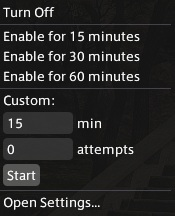
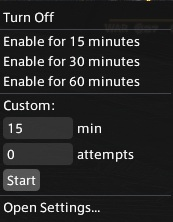
Clean-up, updated README

diff --git a/Inviter/Localizer.cs b/Inviter/Localizer.cs
@@ -124,7 +124,7 @@ namespace Inviter
             zh.Add("Everywhere...", "所有地方……");
             zh.Add("...but for these Maps", "……但这些地图除外");
             zh.Add("The default pattern used everywhere, unless a zone under \"...but for these Maps\" overrides it.", "在所有地方使用的默认模式，除非在“……但这些地图除外”中为该区域设置了覆盖。");
-            zh.Add("Pattern is empty — Inviter will not match any messages until you enter one.", "模式为空 — 在您输入内容之前，Inviter 不会匹配任何消息。");
+            zh.Add("Pattern is empty — Unless overridden for a map, inviter will not match any messages until you enter one.", "模式为空 — 在您输入内容之前，Inviter 不会匹配任何消息（除非某个地图设置了独立覆盖）。");
             zh.Add(
                 "Zones listed here override \"Everywhere...\". Inherit only overrides the Pattern (and whether it's " +
                 "regex) if you check its box below; Force On/Off override the main Enable switch for that zone specifically.",
@@ -270,7 +270,7 @@ namespace Inviter
             fr.Add("Everywhere...", "Partout...");
             fr.Add("...but for these Maps", "...mais pour ces zones");
             fr.Add("The default pattern used everywhere, unless a zone under \"...but for these Maps\" overrides it.", "Le pattern par défaut utilisé partout, sauf si une zone sous « ...mais pour ces zones » le remplace.");
-            fr.Add("Pattern is empty — Inviter will not match any messages until you enter one.", "Le pattern est vide — Inviter ne correspondra à aucun message tant que vous n'en aurez pas saisi un.");
+            zh.Add("Pattern is empty — Unless overridden for a zone, inviter will not match any messages until you enter one.", "模式为空 — 在您输入内容之前，Inviter 不会匹配任何消息（除非某个区域设置了独立覆盖）。");
             fr.Add(
                 "Zones listed here override \"Everywhere...\". Inherit only overrides the Pattern (and whether it's " +
                 "regex) if you check its box below; Force On/Off override the main Enable switch for that zone specifically.",

diff --git a/Inviter/ConfigurationWindow.cs b/Inviter/ConfigurationWindow.cs
@@ -429,7 +429,7 @@ namespace Inviter
 
             if (!string.IsNullOrWhiteSpace(_ruleTerritorySearch))
             {
-                ImGui.BeginChild("##ruleTerritorySearchResults", new Vector2(0, 150));
+                ImGui.BeginChild("##ruleTerritorySearchResults", new Vector2(0, -1));
                 foreach (var territory in Svc.Data.GetExcelSheet<TerritoryType>())
                 {
                     var name = territory.PlaceName.ValueNullable?.Name.ToString();

diff --git a/README.md b/README.md
@@ -1,10 +1,11 @@
 # Inviter
+[![Workflow Status](https://github.com/MakorVihar/Inviter/actions/workflows/build.yml/badge.svg?branch=main)](https://github.com/MakorVihar/Inviter/actions/workflows/build.yml)
+![Dalamud SDK](https://img.shields.io/badge/Dalamud%20SDK-v15-7289da)
+![FFXIV Patch](https://img.shields.io/badge/FFXIV%20Patch-7.55-d97706)
 
 A [Dalamud](https://dalamud.dev) plugin that automatically invites players who say a matching phrase (default "inv") in chat to your party.
 
 This is a fork of [Bluefissure/Inviter](https://github.com/Bluefissure/Inviter), updated to target the current Dalamud API and extended with a server info bar toggle, a right-click quick menu, channel filter shortcuts, and per-zone rules.
-
-![Settings window](images/settings_window.jpg)
 
 ## Install
 
@@ -14,7 +15,7 @@ Add this repository's `repo.json` as a custom plugin repository in Dalamud: **Da
 https://raw.githubusercontent.com/MakorVihar/Inviter/main/repo.json
 ```
 
-Then find "Inviter" under **Plugin Installer → All Plugins** and install it. See [PUBLISHING.md](PUBLISHING.md) if you're setting this repository up yourself.
+Then find "Inviter" under **Plugin Installer → All Plugins** and install it.
 
 ## Features
 
@@ -28,6 +29,12 @@ Then find "Inviter" under **Plugin Installer → All Plugins** and install it. S
   - `Timed (Xm)` — a timed session is running and currently in effect
   - **Left-click** the entry to toggle. In a Forced zone this flips the force state directly (Forced - On ↔ Forced - Off) without touching the main switch; everywhere else it toggles the main switch
   - **Right-click** the entry for a quick menu: turn on/off, start a timed session (with duration presets or a custom minutes/attempts input), cancel a running timed session, or open settings
+
+![General Settings](images/settings_window.jpg)
+![Channel Filters](images/channel_filters.jpg)
+
+![General Match](images/everywhere_settings.jpg)
+![Map Settings](images/map_settings.jpg)
 
 ![Server info bar entry](images/server_info_bar_entry.jpg)
 
@@ -71,13 +78,9 @@ A worked example, walking through every part of the config using one scenario: *
 - **Delay (ms)** — a randomized wait between the two values you set here, before actually sending the invite; e.g. `200` to `600` means each invite waits somewhere between 200ms and 600ms, not always the same amount.
 - **Rate limit (ms)** — how long to wait between invites, so as to not trigger a burst of invites.
 
-<!-- ![General settings](images/example-general-settings.png) -->
-
 ### 2. Filters
 
 Pick which chat channels are actually watched. For most zones you only care about **Shout**, **Yell** and **Say** — leave channels like Free Company unchecked if you don't want messages from there triggering an invite too.
-
-<!-- ![Channel filters](images/example-filters.png) -->
 
 ### 3. Per-zone rules ("...but for these Maps")
 
@@ -90,8 +93,6 @@ Two example zones:
 
 Add a row with **Add Current Zone** while standing in the relevant zone, or find one elsewhere with **Search zone name...**.
 
-<!-- ![Zone rules](images/example-zone-rules.png) -->
-
 ### 4. Server info bar, in this scenario
 
 With the setup above, walking around shows different DTR text depending on where you are:
@@ -100,8 +101,6 @@ With the setup above, walking around shows different DTR text depending on where
 - The hunt train zone (`Force On`): **`Inviter: On (Forced)`** — left-clicking here toggles it to `Off (Forced)` without touching the main switch
 - North Horn (`Inherit` + pattern override): **`Inviter: On (Inherited)`**, same as the main switch since Inherit still follows this — left-clicking here toggles it to **`Inviter: Off (Inherited)`**, turning off the main switch.
 - If you right-click anywhere and start a timed session, that zone shows **`Inviter: Timed (Xm)`** instead, counting down
-
-<!-- ![DTR bar states](images/example-dtr-states.png) -->
 
 ### Reference: pattern matching
 
